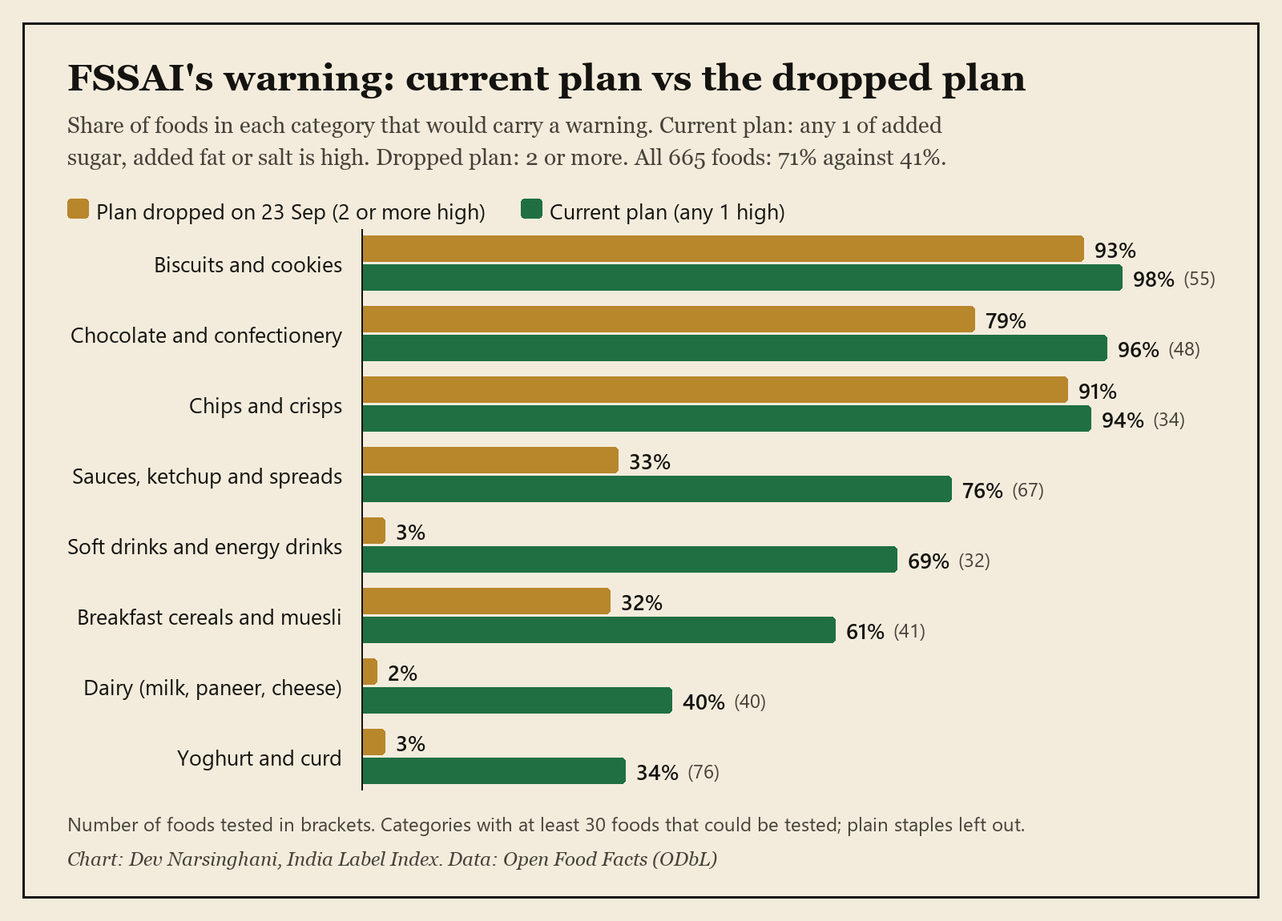
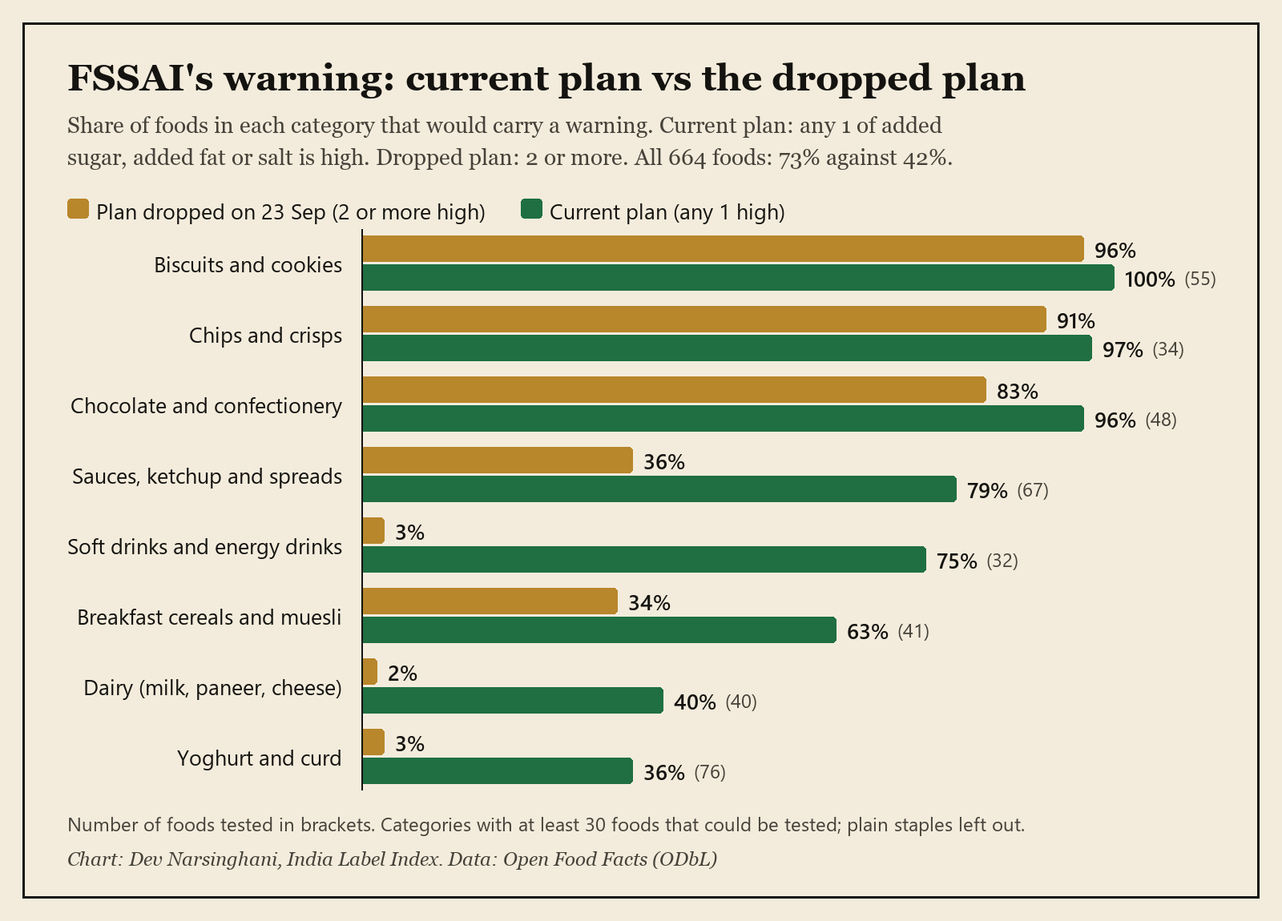
Study 3 corrected from pack photos (11 Nov 2026, backlog 15n): Open Food Facts volunteers had typed some foods' added sugar as 0 g or too low; 27 values read by eye from the nutrition photos (26 added sugar, 1 total sugar) and 1 junk record dropped. 482 of 664 warned under FSSAI's current plan (73%,

diff --git a/india-label-index/fssai-warning-labels/index.html b/india-label-index/fssai-warning-labels/index.html
@@ -4,14 +4,14 @@
 <meta charset="utf-8">
 <meta name="viewport" content="width=device-width, initial-scale=1">
 <title>If FSSAI's warning labels started today | India Label Index</title>
-<meta name="description" content="71% of the 665 foods I tested. That is under FSSAI&#x27;s current plan, where a food high in any one of added sugar, added fat or salt gets the warning. Under its first plan, which needed 2 or more, it would have been 41%.">
+<meta name="description" content="73% of the 664 foods I tested. That is under FSSAI&#x27;s current plan, where a food high in any one of added sugar, added fat or salt gets the warning. Under its first plan, which needed 2 or more, it would have been 42%.">
 <meta name="author" content="Dev Narsinghani">
 <link rel="canonical" href="https://devnarsinghani22.github.io/india-label-index/fssai-warning-labels/">
 <meta property="og:type" content="article">
 <meta property="og:site_name" content="Dev Narsinghani">
 <meta property="og:locale" content="en_IN">
 <meta property="og:title" content="If FSSAI&#x27;s warning labels started today: 7 in 10 Indian packaged foods would carry a warning">
-<meta property="og:description" content="71% of the 665 foods I tested. That is under FSSAI&#x27;s current plan, where a food high in any one of added sugar, added fat or salt gets the warning. Under its first plan, which needed 2 or more, it would have been 41%.">
+<meta property="og:description" content="73% of the 664 foods I tested. That is under FSSAI&#x27;s current plan, where a food high in any one of added sugar, added fat or salt gets the warning. Under its first plan, which needed 2 or more, it would have been 42%.">
 <meta property="og:url" content="https://devnarsinghani22.github.io/india-label-index/fssai-warning-labels/">
 <meta property="og:image" content="https://devnarsinghani22.github.io/india-label-index/fssai-warning-labels/og.png">
 <meta property="og:image:width" content="1200">
@@ -37,7 +37,7 @@ table.data th:first-child,table.data td:first-child{text-align:left;white-space:
 table.data.trail th,table.data.trail td{text-align:left;white-space:normal;vertical-align:top}table.data.trail th:first-child,table.data.trail td:first-child{min-width:0;width:16%}table.data.trail td:nth-child(2){width:26%}</style>
 <meta name="twitter:card" content="summary_large_image">
 <meta name="twitter:title" content="If FSSAI&#x27;s warning labels started today: 7 in 10 Indian packaged foods would carry a warning">
-<meta name="twitter:description" content="71% of the 665 foods I tested. That is under FSSAI&#x27;s current plan, where a food high in any one of added sugar, added fat or salt gets the warning. Under its first plan, which needed 2 or more, it would have been 41%.">
+<meta name="twitter:description" content="73% of the 664 foods I tested. That is under FSSAI&#x27;s current plan, where a food high in any one of added sugar, added fat or salt gets the warning. Under its first plan, which needed 2 or more, it would have been 42%.">
 <meta name="twitter:image" content="https://devnarsinghani22.github.io/india-label-index/fssai-warning-labels/og.png">
 <link rel="icon" href="/favicon.ico" sizes="32x32">
 <link rel="icon" href="/favicon.svg" type="image/svg+xml">
@@ -52,7 +52,7 @@ table.data.trail th,table.data.trail td{text-align:left;white-space:normal;verti
       "@type": "Dataset",
       "@id": "https://devnarsinghani22.github.io/india-label-index/fssai-warning-labels/#dataset",
       "name": "If FSSAI's warning labels started today. India Label Index 2026",
-      "description": "This dataset includes 665 non-staple Indian packaged foods with full nutrition tables, tested against FSSAI's proposed warning label limits. 71% would carry a warning under FSSAI's current plan, and the data comes from Open Food Facts.",
+      "description": "This dataset includes 664 non-staple Indian packaged foods with full nutrition tables tested against FSSAI's proposed warning label limits. Seventy three percent would carry a warning under FSSAI's current plan and the data comes from Open Food Facts.",
       "url": "https://devnarsinghani22.github.io/india-label-index/fssai-warning-labels/",
       "creator": {
         "@type": "Person",
@@ -105,7 +105,7 @@ table.data.trail th,table.data.trail td{text-align:left;white-space:normal;verti
         "@id": "https://devnarsinghani22.github.io/india-label-index/fssai-warning-labels/"
       },
       "datePublished": "2026-10-01",
-      "dateModified": "2026-10-29",
+      "dateModified": "2026-11-11",
       "inLanguage": "en-IN",
       "image": "https://devnarsinghani22.github.io/india-label-index/fssai-warning-labels/og.png",
       "author": {
@@ -151,7 +151,7 @@ table.data.trail th,table.data.trail td{text-align:left;white-space:normal;verti
           "name": "How many Indian packaged foods would get FSSAI's proposed warning?",
           "acceptedAnswer": {
             "@type": "Answer",
-            "text": "71% of the 665 foods I tested. That is under FSSAI's current plan, where a food high in any one of added sugar, added fat or salt gets the warning. Under its first plan, which needed 2 or more, it would have been 41%."
+            "text": "73% of the 664 foods I tested. That is under FSSAI's current plan, where a food high in any one of added sugar, added fat or salt gets the warning. Under its first plan, which needed 2 or more, it would have been 42%."
           }
         },
         {
@@ -159,7 +159,7 @@ table.data.trail th,table.data.trail td{text-align:left;white-space:normal;verti
           "name": "What did the switch to a single nutrient change?",
           "acceptedAnswer": {
             "@type": "Answer",
-            "text": "It added about 30 in every 100 packaged foods: the ones high in just one thing. Soft drinks are the clearest case: 69% are high in added sugar, but only 3% would have been warned under the 2-nutrient plan, because sugar is their only high nutrient."
+            "text": "It added about 30 in every 100 packaged foods: the ones high in just one thing. Soft drinks are the clearest case: 75% are high in added sugar, but only 3% would have been warned under the 2-nutrient plan, because sugar is their only high nutrient."
           }
         },
         {
@@ -167,7 +167,7 @@ table.data.trail th,table.data.trail td{text-align:left;white-space:normal;verti
           "name": "Which foods change most between the two plans?",
           "acceptedAnswer": {
             "@type": "Answer",
-            "text": "Foods that are high in just one thing. Soft drinks go from 3% to 69%. Yoghurt and curd go from 3% to 34%. Biscuits and chips barely change, because most are already high in two things."
+            "text": "Foods that are high in just one thing. Soft drinks go from 3% to 75%. Yoghurt and curd go from 3% to 36%. Biscuits and chips barely change, because most are already high in two things."
           }
         },
         {
@@ -175,7 +175,7 @@ table.data.trail th,table.data.trail td{text-align:left;white-space:normal;verti
           "name": "Which nutrient is high most often?",
           "acceptedAnswer": {
             "@type": "Answer",
-            "text": "Added sugar, in 45% of foods. Added fat is high in 43% and salt in 33%."
+            "text": "Added sugar, in 49% of foods. Added fat is high in 43% and salt in 33%."
           }
         },
         {
@@ -223,57 +223,58 @@ table.data.trail th,table.data.trail td{text-align:left;white-space:normal;verti
     <h1>If FSSAI's warning labels started today</h1>
     <p class="dek">FSSAI wants red warnings on packaged food high in added sugar, added fat or salt. It first proposed a warning only when 2 were high. After the Supreme Court asked why, it said on 23 September that 1 is enough. I ran both on Indian labels.</p>
     <p class="byline">By <a href="/" rel="author">Dev Narsinghani</a>. He writes about food labels, sleep and AI for marketing.</p>
-    <p class="meta">Published <time datetime="2026-10-01">1 October 2026</time> · 665 Indian packaged foods with a full nutrition table and ingredient list</p>
-    <p class="meta">Corrected 13 October 2026: Open Food Facts tags cheese as a fermented milk product, so 67 cheese lists were counted under yoghurt and curd. The share of foods tested that would carry FSSAI's warning in yoghurt and curd was 38% of 90 foods tested before, 34% of 76 now. Dairy now has enough foods to be shown: 40% of 40 foods tested. FSSAI's older plan stays 3%.</p>
+    <p class="meta">Published <time datetime="2026-10-01">1 October 2026</time> · 664 Indian packaged foods with a full nutrition table and ingredient list</p>
+    <p class="meta">Corrected 13 October 2026: Open Food Facts tags cheese as a fermented milk product, so 67 cheese lists were counted under yoghurt and curd. Yoghurt and curd under FSSAI's current plan went from 38% of 90 foods tested to 34% of 76. Dairy then had enough foods to be shown: 40% of 40 foods tested. FSSAI's older plan stayed 3%.</p>
+    <p class="meta">Corrected 11 November 2026: On Open Food Facts, volunteers had typed some foods' added sugar as 0 g or too low, while the pack's nutrition photo prints more. I read those photos by eye and fixed 27 values. I also dropped 1 record whose nutrition photo shows no food pack, which is why 665 foods became 664. All foods under FSSAI's current plan: 71% of 665 foods tested before, 73% of 664 foods tested now. The 2-nutrient plan FSSAI dropped: 41% before, 42% now. Soft drinks high in added sugar: 69% of 32 before, 75% of 32 now. Yoghurt and curd: 34% of 76 before, 36% of 76 now.</p>
     <div class="body">
     <div class="stats">
-<div class="stat"><b>71%</b><span>would carry a warning under FSSAI's current plan (any 1 nutrient high)</span></div>
-<div class="stat"><b>41%</b><span>under the plan it dropped on 23 September (2 or more high)</span></div>
-<div class="stat"><b>3% to 69%</b><span>of soft drinks warned, old plan to new plan</span></div>
+<div class="stat"><b>73%</b><span>would carry a warning under FSSAI's current plan (any 1 nutrient high)</span></div>
+<div class="stat"><b>42%</b><span>under the plan it dropped on 23 September (2 or more high)</span></div>
+<div class="stat"><b>3% to 75%</b><span>of soft drinks warned, old plan to new plan</span></div>
     </div>
     <h2 id="answers">Quick answers</h2>
 <h3>How many Indian packaged foods would get FSSAI's proposed warning?</h3>
-<p>71% of the 665 foods I tested. That is under FSSAI's current plan, where a food high in any one of added sugar, added fat or salt gets the warning. Under its first plan, which needed 2 or more, it would have been 41%.</p>
+<p>73% of the 664 foods I tested. That is under FSSAI's current plan, where a food high in any one of added sugar, added fat or salt gets the warning. Under its first plan, which needed 2 or more, it would have been 42%.</p>
 <h3>What did the switch to a single nutrient change?</h3>
-<p>It added about 30 in every 100 packaged foods: the ones high in just one thing. Soft drinks are the clearest case: 69% are high in added sugar, but only 3% would have been warned under the 2-nutrient plan, because sugar is their only high nutrient.</p>
+<p>It added about 30 in every 100 packaged foods: the ones high in just one thing. Soft drinks are the clearest case: 75% are high in added sugar, but only 3% would have been warned under the 2-nutrient plan, because sugar is their only high nutrient.</p>
 <h3>Which foods change most between the two plans?</h3>
-<p>Foods that are high in just one thing. Soft drinks go from 3% to 69%. Yoghurt and curd go from 3% to 34%. Biscuits and chips barely change, because most are already high in two things.</p>
+<p>Foods that are high in just one thing. Soft drinks go from 3% to 75%. Yoghurt and curd go from 3% to 36%. Biscuits and chips barely change, because most are already high in two things.</p>
 <h3>Which nutrient is high most often?</h3>
-<p>Added sugar, in 45% of foods. Added fat is high in 43% and salt in 33%.</p>
+<p>Added sugar, in 49% of foods. Added fat is high in 43% and salt in 33%.</p>
 <h3>What limits does FSSAI propose?</h3>
 <p>FSSAI told the Supreme Court it would use the ICMR-NIN 2024 limits. For a solid food, per 100 g: 3 g added sugar, 4.2 g added fat, 625 mg salt. For a drink, per 100 ml: 2 g, 1.5 g and 175 mg.</p>
     <figure class="chart"><figcaption><strong>Share that would carry a warning under FSSAI's current plan (any 1 nutrient high)</strong></figcaption><svg class="bars" viewBox="0 0 640 278" role="img" aria-label="Share of products high in at least one of added sugar, added fat or salt under FSSAI&#x27;s proposed limits, by category" preserveAspectRatio="xMinYMin meet">
-<g><title>Biscuits and cookies: 98% (from 55 products)</title><text x="240" y="19.4" text-anchor="end" class="lbl">Biscuits and cookies</text><rect x="250" y="4" width="323.4" height="22" rx="4" class="bar"/><text x="579.4" y="19.4" class="val">98%</text></g>
-<g><title>Chocolate and confectionery: 96% (from 48 products)</title><text x="240" y="49.4" text-anchor="end" class="lbl">Chocolate and confectionery</text><rect x="250" y="34" width="316.8" height="22" rx="4" class="bar"/><text x="572.8" y="49.4" class="val">96%</text></g>
-<g><title>Chips and crisps: 94% (from 34 products)</title><text x="240" y="79.4" text-anchor="end" class="lbl">Chips and crisps</text><rect x="250" y="64" width="310.2" height="22" rx="4" class="bar"/><text x="566.2" y="79.4" class="val">94%</text></g>
-<g><title>Sauces, ketchup and spreads: 76% (from 67 products)</title><text x="240" y="109.4" text-anchor="end" class="lbl">Sauces, ketchup and spreads</text><rect x="250" y="94" width="250.8" height="22" rx="4" class="bar"/><text x="506.8" y="109.4" class="val">76%</text></g>
-<g><title>Soft drinks and energy drinks: 69% (from 32 products)</title><text x="240" y="139.4" text-anchor="end" class="lbl">Soft drinks and energy drinks</text><rect x="250" y="124" width="227.7" height="22" rx="4" class="bar"/><text x="483.7" y="139.4" class="val">69%</text></g>
-<g><title>Breakfast cereals and muesli: 61% (from 41 products)</title><text x="240" y="169.4" text-anchor="end" class="lbl">Breakfast cereals and muesli</text><rect x="250" y="154" width="201.3" height="22" rx="4" class="bar"/><text x="457.3" y="169.4" class="val">61%</text></g>
+<g><title>Biscuits and cookies: 100% (from 55 products)</title><text x="240" y="19.4" text-anchor="end" class="lbl">Biscuits and cookies</text><rect x="250" y="4" width="330.0" height="22" rx="4" class="bar"/><text x="586.0" y="19.4" class="val">100%</text></g>
+<g><title>Chips and crisps: 97% (from 34 products)</title><text x="240" y="49.4" text-anchor="end" class="lbl">Chips and crisps</text><rect x="250" y="34" width="320.1" height="22" rx="4" class="bar"/><text x="576.1" y="49.4" class="val">97%</text></g>
+<g><title>Chocolate and confectionery: 96% (from 48 products)</title><text x="240" y="79.4" text-anchor="end" class="lbl">Chocolate and confectionery</text><rect x="250" y="64" width="316.8" height="22" rx="4" class="bar"/><text x="572.8" y="79.4" class="val">96%</text></g>
+<g><title>Sauces, ketchup and spreads: 79% (from 67 products)</title><text x="240" y="109.4" text-anchor="end" class="lbl">Sauces, ketchup and spreads</text><rect x="250" y="94" width="260.7" height="22" rx="4" class="bar"/><text x="516.7" y="109.4" class="val">79%</text></g>
+<g><title>Soft drinks and energy drinks: 75% (from 32 products)</title><text x="240" y="139.4" text-anchor="end" class="lbl">Soft drinks and energy drinks</text><rect x="250" y="124" width="247.5" height="22" rx="4" class="bar"/><text x="503.5" y="139.4" class="val">75%</text></g>
+<g><title>Breakfast cereals and muesli: 63% (from 41 products)</title><text x="240" y="169.4" text-anchor="end" class="lbl">Breakfast cereals and muesli</text><rect x="250" y="154" width="207.9" height="22" rx="4" class="bar"/><text x="463.9" y="169.4" class="val">63%</text></g>
 <g><title>Dairy (milk, paneer, cheese): 40% (from 40 products)</title><text x="240" y="199.4" text-anchor="end" class="lbl">Dairy (milk, paneer, cheese)</text><rect x="250" y="184" width="132.0" height="22" rx="4" class="bar"/><text x="388.0" y="199.4" class="val">40%</text></g>
-<g><title>Yoghurt and curd: 34% (from 76 products)</title><text x="240" y="229.4" text-anchor="end" class="lbl">Yoghurt and curd</text><rect x="250" y="214" width="112.2" height="22" rx="4" class="bar"/><text x="368.2" y="229.4" class="val">34%</text></g>
+<g><title>Yoghurt and curd: 36% (from 76 products)</title><text x="240" y="229.4" text-anchor="end" class="lbl">Yoghurt and curd</text><rect x="250" y="214" width="118.8" height="22" rx="4" class="bar"/><text x="374.8" y="229.4" class="val">36%</text></g>
 <g><title>Flours, grains and pulses: 22% (from 32 products)</title><text x="240" y="259.4" text-anchor="end" class="lbl">Flours, grains and pulses</text><rect x="250" y="244" width="72.6" height="22" rx="4" class="bar"/><text x="328.6" y="259.4" class="val">22%</text></g>
-</svg><p class="meta">Categories with at least 30 products that could be tested. From 665 foods in all.</p></figure>
+</svg><p class="meta">Categories with at least 30 products that could be tested. From 664 foods in all.</p></figure>
     <h2 id="phases">Old plan against current plan, by category</h2>
     <div class="tablewrap"><table class="data"><tr><th>Category</th><th>Foods tested</th><th>Dropped plan (2+ high)</th><th>Current plan (any 1 high)</th></tr>
-<tr><td>Biscuits and cookies</td><td>55</td><td>93%</td><td>98%</td></tr>
-<tr><td>Chocolate and confectionery</td><td>48</td><td>79%</td><td>96%</td></tr>
-<tr><td>Chips and crisps</td><td>34</td><td>91%</td><td>94%</td></tr>
-<tr><td>Sauces, ketchup and spreads</td><td>67</td><td>33%</td><td>76%</td></tr>
-<tr><td>Soft drinks and energy drinks</td><td>32</td><td>3%</td><td>69%</td></tr>
-<tr><td>Breakfast cereals and muesli</td><td>41</td><td>32%</td><td>61%</td></tr>
+<tr><td>Biscuits and cookies</td><td>55</td><td>96%</td><td>100%</td></tr>
+<tr><td>Chips and crisps</td><td>34</td><td>91%</td><td>97%</td></tr>
+<tr><td>Chocolate and confectionery</td><td>48</td><td>83%</td><td>96%</td></tr>
+<tr><td>Sauces, ketchup and spreads</td><td>67</td><td>36%</td><td>79%</td></tr>
+<tr><td>Soft drinks and energy drinks</td><td>32</td><td>3%</td><td>75%</td></tr>
+<tr><td>Breakfast cereals and muesli</td><td>41</td><td>34%</td><td>63%</td></tr>
 <tr><td>Dairy (milk, paneer, cheese)</td><td>40</td><td>2%</td><td>40%</td></tr>
-<tr><td>Yoghurt and curd</td><td>76</td><td>3%</td><td>34%</td></tr>
+<tr><td>Yoghurt and curd</td><td>76</td><td>3%</td><td>36%</td></tr>
 <tr><td>Flours, grains and pulses</td><td>32</td><td>16%</td><td>22%</td></tr>
     </table></div>
     <h2 id="each">Each nutrient</h2>
     <div class="tablewrap"><table class="data"><tr><th>Warning</th><th>Share of foods</th></tr>
-<tr><td>High in added sugar</td><td>44.8%</td></tr>
-<tr><td>High in added fat</td><td>42.9%</td></tr>
-<tr><td>High in salt</td><td>32.8%</td></tr>
+<tr><td>High in added sugar</td><td>48.6%</td></tr>
+<tr><td>High in added fat</td><td>42.8%</td></tr>
+<tr><td>High in salt</td><td>32.7%</td></tr>
     </table></div>
     <h2 id="rules">The rules I used</h2>
     <p>The limits FSSAI cited to the Supreme Court in its 28 August 2026 affidavit, from Table 15.1 of the ICMR-NIN Dietary Guidelines for Indians, 2024 (<a href="https://www.livelaw.in/amp/top-stories/adopting-canadian-model-on-warning-labels-for-packaged-foods-high-in-fat-sugar-or-salt-fssai-informs-supreme-court-551972">LiveLaw</a>, <a href="https://www.business-standard.com/india-news/sc-seeks-fssai-clarity-on-ultra-processed-foods-fopl-nutrient-thresholds-126091101217_1.html">Business Standard</a>). A solid food is high at 3 g of added sugar, 4.2 g of added fat or 625 mg of salt in 100 g. A drink is high at 2 g, 1.5 g or 175 mg in 100 ml.</p>
-    <p>Added sugar is the number the label itself declares; Indian labels must print it, and 682 of the foods had it. Where it was missing, I used total sugar, but only if a sugar was in the ingredient list. Added fat is total fat when an oil or fat is in the list. Salt counts when salt is in the list. Oils, ghee, flours, spices and tea are left out, as FSSAI exempts single-ingredient and naturally fat-rich foods.</p>
+    <p>Added sugar is the number the label itself declares; Indian labels must print it, and 677 of the foods had it. Where it was missing, I used total sugar, but only if a sugar was in the ingredient list. Added fat is total fat when an oil or fat is in the list. Salt counts when salt is in the list. Oils, ghee, flours, spices and tea are left out, as FSSAI exempts single-ingredient and naturally fat-rich foods.</p>
     <h2 id="paper-trail">FSSAI's front-of-pack label plans over time</h2>
     <p>This table shows FSSAI's own papers about front-of-pack labels from 2021 to 2026. Each row comes from one document, and says only what that document says.</p>
     <div class="tablewrap"><table class="data trail"><tr><th>Date</th><th>Document</th><th>What it says</th></tr>
@@ -291,7 +292,7 @@ table.data.trail th,table.data.trail td{text-align:left;white-space:normal;verti
       <li>The final rule is not out. FSSAI told the court it needs about 4 months to finalise it, then gives companies a year (<a href="https://theprint.in/health/fssai-tells-sc-it-will-introduce-front-of-pack-warnings-in-single-phase-gives-food-firms-1-yr-to-comply/3051546/">ThePrint</a>). The court reserved its order on 28 September 2026, and the limits may change.</li>
       <li>FSSAI also plans to cover some sweetened drinks by type, whatever their numbers. This study uses the nutrient limits only.</li>
       <li>Labels show total fat, not added fat, so the fat numbers are an upper estimate.</li>
-      <li>The data is from <a href="https://world.openfoodfacts.org/">Open Food Facts</a>, filled in by volunteers. Only 665 Indian foods had every number needed, so treat category numbers as rough.</li>
+      <li>The data is from <a href="https://world.openfoodfacts.org/">Open Food Facts</a>, filled in by volunteers. Only 664 Indian foods had every number needed, so treat category numbers as rough.</li>
       <li>It covers categories, not brands, and rates no product.</li>
     </ul>
     <p>Data and code: <a href="https://github.com/devnarsinghani22/india-label-index">https://github.com/devnarsinghani22/india-label-index</a> (fssai.py). See also <a href="https://devnarsinghani22.github.io/india-label-index/warning-labels/">If India used Chile's warning labels</a>. Part of the <a href="https://devnarsinghani22.github.io/india-label-index/">India Label Index 2026</a>.</p>

diff --git a/press/index.html b/press/index.html
@@ -17,7 +17,7 @@
 <meta property="og:image:width" content="1200">
 <meta property="og:image:height" content="630">
 <meta property="og:image:alt" content="Dev Narsinghani, with his photo and the line: I make honest food easy to choose, and I build my own AI to do it.">
-<meta property="article:modified_time" content="2026-10-13T09:00:00+05:30">
+<meta property="article:modified_time" content="2026-11-11T09:00:00+05:30">
 <style>
 .stats{display:grid;grid-template-columns:repeat(auto-fit,minmax(150px,1fr));gap:12px;margin:24px 0}
 .stat{border:1px solid var(--line);padding:14px;border-radius:6px}
@@ -74,7 +74,7 @@ table.data th:first-child,table.data td:first-child{text-align:left;white-space:
       "description": "Press kit for the India Label Index by Dev Narsinghani: for each of 7 studies of Indian food labels, the headline number with the number of foods behind it, lines to quote, a chart, the data and how to cite it. Bio, headshot and contact.",
       "inLanguage": "en-IN",
       "datePublished": "2026-10-08",
-      "dateModified": "2026-10-13",
+      "dateModified": "2026-11-11",
       "about": {
         "@id": "https://devnarsinghani22.github.io/#dev"
       },
@@ -164,7 +164,7 @@ table.data th:first-child,table.data td:first-child{text-align:left;white-space:
           "@id": "https://devnarsinghani22.github.io/press/charts/fssai-warning-labels.png",
           "contentUrl": "https://devnarsinghani22.github.io/press/charts/fssai-warning-labels.png",
           "name": "FSSAI's warning: current plan vs the dropped plan",
-          "caption": "Share of foods in each category that would carry a warning. Current plan: any 1 of added sugar, added fat or salt is high. Dropped plan: 2 or more. All 665 foods: 71% against 41%.",
+          "caption": "Share of foods in each category that would carry a warning. Current plan: any 1 of added sugar, added fat or salt is high. Dropped plan: 2 or more. All 664 foods: 73% against 42%.",
           "encodingFormat": "image/png",
           "width": 1600,
           "height": 1150,
@@ -306,6 +306,7 @@ table.data th:first-child,table.data td:first-child{text-align:left;white-space:
       },
       "sameAs": [
         "https://www.linkedin.com/in/devnarsinghani/",
+        "https://www.instagram.com/devnarsinghani/",
         "https://github.com/devnarsinghani22",
         "https://orcid.org/0009-0001-7941-6724",
         "https://www.kaggle.com/devnarsinghani",
@@ -350,7 +351,7 @@ table.data th:first-child,table.data td:first-child{text-align:left;white-space:
   <article class="guide press">
     <h1>Press kit</h1>
     <p class="dek">For journalists covering the India Label Index, Dev Narsinghani's open study of Indian food labels. Each study below has its headline number with the number of foods behind it, lines you can quote, a chart, the data and a citation.</p>
-    <p class="meta">Updated <time datetime="2026-10-13">13 October 2026</time> · Contact: <a href="mailto:dev.narsinghani@gmail.com">dev.narsinghani@gmail.com</a></p>
+    <p class="meta">Updated <time datetime="2026-11-11">11 November 2026</time> · Contact: <a href="mailto:dev.narsinghani@gmail.com">dev.narsinghani@gmail.com</a></p>
     <p class="toc"><a href="#bio">About Dev</a> · <a href="#added-sugar">Added sugar</a> · <a href="#chile-warning-labels">Chile's warning labels</a> · <a href="#fssai-warning-labels">FSSAI's warning labels</a> · <a href="#palm-oil">Palm oil</a> · <a href="#india-vs-world">India vs the world</a> · <a href="#diwali">The Diwali box</a> · <a href="#healthy-names">Grain words vs FSSAI warnings</a> · <a href="#method">Method</a> · <a href="#caveat">Caveat</a> · <a href="#cite">How to cite</a> · <a href="#contact">Contact</a></p>
     <div class="body">
     <h2 id="bio">About Dev</h2>
@@ -404,16 +405,16 @@ table.data th:first-child,table.data td:first-child{text-align:left;white-space:
   <section class="study" id="fssai-warning-labels">
     <h3 class="st">3. FSSAI's warning labels</h3>
     <p class="meta"><a href="https://devnarsinghani22.github.io/india-label-index/fssai-warning-labels/">If FSSAI's warning labels started today</a> · Published 1 October 2026</p>
-    <p class="head"><b>71%</b>of 665 Indian packaged foods tested would carry FSSAI's proposed warning under its current plan, against 41% under the plan it dropped.</p>
-    <p class="meta">n = 665 foods with a full nutrition table and ingredient list, plain staples left out.</p>
+    <p class="head"><b>73%</b>of 664 Indian packaged foods tested would carry FSSAI's proposed warning under its current plan, against 42% under the plan it dropped.</p>
+    <p class="meta">n = 664 foods with a full nutrition table and ingredient list, plain staples left out.</p>
     <h4>Lines you can quote</h4>
     <ul class="quotes">
-      <li>71% of 665 Indian packaged foods would carry FSSAI's proposed warning under its current plan, where one high nutrient is enough. Under the 2-nutrient plan it dropped on 23 September, it would have been 41%.</li>
-      <li>Soft drinks show the switch most clearly: 69% are high in added sugar, but only 3% would have been warned under the 2-nutrient plan (32 tested).</li>
-      <li>Yoghurt and curd go from 3% to 34% (76 tested). Biscuits and chips barely change, because most are already high in two things.</li>
+      <li>73% of 664 Indian packaged foods would carry FSSAI's proposed warning under its current plan, where one high nutrient is enough. Under the 2-nutrient plan it dropped on 23 September, it would have been 42%.</li>
+      <li>Soft drinks show the switch most clearly: 75% are high in added sugar, but only 3% would have been warned under the 2-nutrient plan (32 tested).</li>
+      <li>Yoghurt and curd go from 3% to 36% (76 tested). Biscuits and chips barely change, because most are already high in two things.</li>
     </ul>
-    <p class="ctx">The limits are the ICMR-NIN 2024 ones that FSSAI cited to the Supreme Court. The court reserved its order on 28 September 2026, so the final limits may change. Corrected 13 October 2026: Open Food Facts tags cheese as a fermented milk product, so 67 cheese lists were counted under yoghurt and curd. The share of foods tested that would carry FSSAI's warning in yoghurt and curd was 38% of 90 foods tested before, 34% of 76 now. All headline shares did not change.</p>
-    <a href="charts/fssai-warning-labels.png"><img class="chart" src="charts/fssai-warning-labels.png" width="1600" height="1150" loading="lazy" alt="FSSAI&#x27;s warning: current plan vs the dropped plan. Share of foods in each category that would carry a warning. Current plan: any 1 of added sugar, added fat or salt is high. Dropped plan: 2 or more. All 665 foods: 71% against 41%."></a>
+    <p class="ctx">The limits are the ICMR-NIN 2024 ones that FSSAI cited to the Supreme Court. The court reserved its order on 28 September 2026, so the final limits may change. Corrected 13 October 2026: Open Food Facts tags cheese as a fermented milk product, so 67 cheese lists were counted under yoghurt and curd. Yoghurt and curd under FSSAI's current plan went from 38% of 90 foods tested to 34% of 76. Corrected 11 November 2026: On Open Food Facts, volunteers had typed some foods' added sugar as 0 g or too low, while the pack's nutrition photo prints more. I read those photos by eye and fixed 27 values. I also dropped 1 record whose nutrition photo shows no food pack, which is why 665 foods became 664. All foods under FSSAI's current plan: 71% of 665 foods tested before, 73% of 664 foods tested now. The 2-nutrient plan FSSAI dropped: 41% before, 42% now.</p>
+    <a href="charts/fssai-warning-labels.png"><img class="chart" src="charts/fssai-warning-labels.png" width="1600" height="1150" loading="lazy" alt="FSSAI&#x27;s warning: current plan vs the dropped plan. Share of foods in each category that would carry a warning. Current plan: any 1 of added sugar, added fat or salt is high. Dropped plan: 2 or more. All 664 foods: 73% against 42%."></a>
     <ul class="files">
       <li>Chart: <a href="charts/fssai-warning-labels.png" download>PNG, 1600 x 1150</a> · <a href="charts/fssai-warning-labels.csv" download>the chart's numbers (CSV)</a> · <a href="https://devnarsinghani22.github.io/india-label-index/fssai-warning-labels/og.png">share card (PNG, 1200 x 630)</a></li>
       <li>Study page: <a href="https://devnarsinghani22.github.io/india-label-index/fssai-warning-labels/">devnarsinghani22.github.io/india-label-index/fssai-warning-labels/</a></li>

diff --git a/healthy-snacking/index.html b/healthy-snacking/index.html
@@ -4,14 +4,14 @@
 <meta charset="utf-8">
 <meta name="viewport" content="width=device-width, initial-scale=1">
 <title>Healthy snacking in India: what the labels say | Dev Narsinghani</title>
-<meta name="description" content="Most are not built for daily eating. Across 1,164 Indian snack ingredient lists I checked, sugar shows up in most sweet snacks, and under FSSAI&#x27;s proposed limits only 2% of biscuits and 6% of chips would carry no warning.">
+<meta name="description" content="Most are not built for daily eating. Across 1,164 Indian snack ingredient lists I checked, sugar shows up in most sweet snacks, and under FSSAI&#x27;s proposed limits only 0% of biscuits and 3% of chips would carry no warning.">
 <meta name="author" content="Dev Narsinghani">
 <link rel="canonical" href="https://devnarsinghani22.github.io/healthy-snacking/">
 <meta property="og:type" content="website">
 <meta property="og:site_name" content="Dev Narsinghani">
 <meta property="og:locale" content="en_IN">
 <meta property="og:title" content="Healthy snacking in India: what the labels say | Dev Narsinghani">
-<meta property="og:description" content="Most are not built for daily eating. Across 1,164 Indian snack ingredient lists I checked, sugar shows up in most sweet snacks, and under FSSAI&#x27;s proposed limits only 2% of biscuits and 6% of chips would carry no warning.">
+<meta property="og:description" content="Most are not built for daily eating. Across 1,164 Indian snack ingredient lists I checked, sugar shows up in most sweet snacks, and under FSSAI&#x27;s proposed limits only 0% of biscuits and 3% of chips would carry no warning.">
 <meta property="og:url" content="https://devnarsinghani22.github.io/healthy-snacking/">
 <meta property="og:image" content="https://devnarsinghani22.github.io/og.png">
 <meta property="og:image:width" content="1200">
@@ -37,7 +37,7 @@ table.data th:first-child,table.data td:first-child{text-align:left;white-space:
 </style>
 <meta name="twitter:card" content="summary_large_image">
 <meta name="twitter:title" content="Healthy snacking in India: what the labels say | Dev Narsinghani">
-<meta name="twitter:description" content="Most are not built for daily eating. Across 1,164 Indian snack ingredient lists I checked, sugar shows up in most sweet snacks, and under FSSAI&#x27;s proposed limits only 2% of biscuits and 6% of chips would carry no warning.">
+<meta name="twitter:description" content="Most are not built for daily eating. Across 1,164 Indian snack ingredient lists I checked, sugar shows up in most sweet snacks, and under FSSAI&#x27;s proposed limits only 0% of biscuits and 3% of chips would carry no warning.">
 <meta name="twitter:image" content="https://devnarsinghani22.github.io/og.png">
 <link rel="icon" href="/favicon.ico" sizes="32x32">
 <link rel="icon" href="/favicon.svg" type="image/svg+xml">
@@ -54,7 +54,7 @@ table.data th:first-child,table.data td:first-child{text-align:left;white-space:
       "headline": "Healthy snacking in India: what the labels say",
       "url": "https://devnarsinghani22.github.io/healthy-snacking/",
       "datePublished": "2026-10-01",
-      "dateModified": "2026-10-01",
+      "dateModified": "2026-11-11",
       "inLanguage": "en-IN",
       "author": {
         "@type": "Person",
@@ -85,7 +85,7 @@ table.data th:first-child,table.data td:first-child{text-align:left;white-space:
           "name": "Are packaged snacks in India healthy?",
           "acceptedAnswer": {
             "@type": "Answer",
-            "text": "Most are not built for daily eating. Across 1,164 Indian snack ingredient lists I checked, sugar shows up in most sweet snacks, and under FSSAI's proposed limits only 2% of biscuits and 6% of chips would carry no warning."
+            "text": "Most are not built for daily eating. Across 1,164 Indian snack ingredient lists I checked, sugar shows up in most sweet snacks, and under FSSAI's proposed limits only 0% of biscuits and 3% of chips would carry no warning."
           }
         },
         {
@@ -142,10 +142,11 @@ table.data th:first-child,table.data td:first-child{text-align:left;white-space:
     <h1>Healthy snacking in India: what the labels say</h1>
     <p class="dek">Most packaged snacks would carry a warning under FSSAI's proposed rules. Here is what 1,164 snack labels show, and 3 numbers to check on any pack.</p>
     <p class="byline">By <a href="/" rel="author">Dev Narsinghani</a>, health changemaker and operator. From the <a href="https://devnarsinghani22.github.io/india-label-index/">India Label Index</a>.</p>
+    <p class="meta">Corrected 11 November 2026: On Open Food Facts, volunteers had typed some foods' added sugar as 0 g or too low, while the pack's nutrition photo prints more. I read those photos by eye and fixed 27 values. Biscuits that would carry no warning: 2% of 55 before, 0% of 55 now. Chips that would carry no warning: 6% of 34 before, 3% of 34 now. I tested 55 biscuits and 34 chips.</p>
     <div class="body">
     <div class="stats">
-      <div class="stat"><b>2%</b><span>of biscuits would carry no FSSAI warning</span></div>
-      <div class="stat"><b>6%</b><span>of chips would carry none</span></div>
+      <div class="stat"><b>0%</b><span>of biscuits would carry no FSSAI warning</span></div>
+      <div class="stat"><b>3%</b><span>of chips would carry none</span></div>
       <div class="stat"><b>70%</b><span>of biscuits list sugar under 2 or more names</span></div>
     </div>
     <h2 id="check">The 3 numbers to check</h2>
@@ -157,7 +158,7 @@ table.data th:first-child,table.data td:first-child{text-align:left;white-space:
     <p>These are the limits FSSAI cited to the Supreme Court. A snack under all 3 would carry no warning. Not sure? Paste the label into the free <a href="/tools/label-checker/">Label Checker</a>.</p>
     <h2 id="answers">Quick answers</h2>
     <h3>Are packaged snacks in India healthy?</h3>
-    <p>Most are not built for daily eating. Across 1,164 Indian snack ingredient lists I checked, sugar shows up in most sweet snacks, and under FSSAI's proposed limits only 2% of biscuits and 6% of chips would carry no warning.</p>
+    <p>Most are not built for daily eating. Across 1,164 Indian snack ingredient lists I checked, sugar shows up in most sweet snacks, and under FSSAI's proposed limits only 0% of biscuits and 3% of chips would carry no warning.</p>
     <h3>How do I pick a healthier packaged snack?</h3>
     <p>Turn the pack over. Per 100 g, look for under 3 g of added sugar, under 625 mg of salt and under 4.2 g of fat. Those are FSSAI's proposed warning limits. Then check that no sugar sits in the first 3 ingredients.</p>
     <h3>Why do biscuits list so many sugars?</h3>
@@ -166,11 +167,11 @@ table.data th:first-child,table.data td:first-child{text-align:left;white-space:
     <p>Foods with a short list you recognise: roasted chana, makhana, peanuts, fruit, curd, nuts. If it comes in a pack, use the 3 numbers above.</p>
     <h2 id="data">Snack categories</h2>
     <div class="tablewrap"><table class="data"><tr><th>Category</th><th>Ingredient lists</th><th>List an added sugar</th><th>2+ sugar names</th><th>No FSSAI warning</th></tr>
-<tr><td>Biscuits and cookies</td><td>344</td><td>93%</td><td>70%</td><td>2%</td></tr>
-<tr><td>Chips and crisps</td><td>163</td><td>66%</td><td>12%</td><td>6%</td></tr>
+<tr><td>Biscuits and cookies</td><td>344</td><td>93%</td><td>70%</td><td>0%</td></tr>
+<tr><td>Chips and crisps</td><td>163</td><td>66%</td><td>12%</td><td>3%</td></tr>
 <tr><td>Namkeen and savoury snacks</td><td>105</td><td>52%</td><td>7%</td><td>-</td></tr>
 <tr><td>Chocolate and confectionery</td><td>236</td><td>86%</td><td>34%</td><td>4%</td></tr>
-<tr><td>Breakfast cereals and muesli</td><td>150</td><td>64%</td><td>36%</td><td>39%</td></tr>
+<tr><td>Breakfast cereals and muesli</td><td>150</td><td>64%</td><td>36%</td><td>37%</td></tr>
 <tr><td>Cakes and bakery</td><td>166</td><td>86%</td><td>11%</td><td>-</td></tr>
     </table></div>
     <p class="meta">Data: Open Food Facts (ODbL), read 1 October 2026. Category-level; no brand is rated. "No FSSAI warning" uses the foods with a full nutrition table (fewer than the ingredient lists); a dash means too few to say. Method: <a href="https://devnarsinghani22.github.io/india-label-index/">India Label Index</a>, <a href="https://devnarsinghani22.github.io/india-label-index/fssai-warning-labels/">FSSAI warning study</a>.</p>

diff --git a/india-label-index/per-serving/index.html b/india-label-index/per-serving/index.html
@@ -69,7 +69,7 @@ table.data .n{color:var(--mute);font-size:12px}</style>
         "sameAs": "https://orcid.org/0009-0001-7941-6724"
       },
       "datePublished": "2026-10-23",
-      "dateModified": "2026-10-28",
+      "dateModified": "2026-11-11",
       "license": "https://opendatacommons.org/licenses/odbl/1-0/",
       "isBasedOn": {
         "@type": "Dataset",
@@ -130,7 +130,7 @@ table.data .n{color:var(--mute);font-size:12px}</style>
         "@id": "https://devnarsinghani22.github.io/india-label-index/per-serving/"
       },
       "datePublished": "2026-10-23",
-      "dateModified": "2026-10-28",
+      "dateModified": "2026-11-11",
       "inLanguage": "en-IN",
       "image": "https://devnarsinghani22.github.io/india-label-index/per-serving/og.png",
       "author": {
@@ -296,6 +296,7 @@ table.data .n{color:var(--mute);font-size:12px}</style>
     </table></div>
     <h2 id="method">How I did it</h2>
     <p>The study uses the same 665 Indian packaged foods as study 3. I re-ran the test with the same rules and ingredient matchers. Added sugar is the label's declared added sugar if present, or total sugar if a sugar name is in the list. Added fat is total fat if an oil or fat is listed. Salt is salt if listed. Per serving is the per 100 g value times the printed serving divided by 100. The code checks the result two ways and they agree on every food. The lists and servings come from Open Food Facts, entered by volunteers, so they are not a random sample. The serving is what the pack prints, as typed in by a volunteer. Servings reading exactly 100 g or 100 ml are left out. The limits were set per 100 g and 100 ml; the per-serving test is a what-if. FSSAI's plan is a proposal, not yet law, and the Supreme Court order is reserved. Fat is an upper estimate. No brands are named.</p>
+    <p class="meta">This page uses the 665 foods from 1 October 2026 and did not update the per-serving numbers after study 3 changed to 664 foods on 11 November 2026.</p>
     <h2 id="sources">Where this comes from</h2>
     <ul>
       <li><a href="https://www.fssai.gov.in/upload/advisories/2021/10/617ba7ee1892cLetter_Minutes_FOPL_29_10_2021.pdf">FSSAI: minutes of the stakeholders' meeting on front-of-pack labelling, 30 June 2021 (letter of 29 October 2021)</a></li>

diff --git a/founders-office/index.html b/founders-office/index.html
@@ -151,7 +151,7 @@ table.data th:first-child,table.data td:first-child{text-align:left;white-space:
       <li>Senior Manager, Creative & Content Strategy, Only What's Needed (OWN).</li>
       <li>Chief of Staff to Revant Himatsingka at Food Pharmer, and founding team at Only What's Needed (OWN).</li>
       <li>Built the <a href="https://devnarsinghani22.github.io/india-label-index/">India Label Index</a>: open data on 3,798 Indian packaged-food ingredient lists. 6 in 10 list an added sugar.</li>
-      <li>Ran FSSAI's proposed warning limits on 665 foods: <a href="https://devnarsinghani22.github.io/india-label-index/fssai-warning-labels/">71% would carry a warning under its current plan</a>, against 41% under the plan it dropped.</li>
+      <li>Ran FSSAI's proposed warning limits on 664 foods: <a href="https://devnarsinghani22.github.io/india-label-index/fssai-warning-labels/">73% would carry a warning under its current plan</a>, against 42% under the plan it dropped.</li>
       <li>Built the free <a href="/tools/label-checker/">Label Checker</a>: paste a label, scan a barcode or snap a photo.</li>
       <li>Studied 900 LinkedIn posts from 9 health voices to learn what makes people act on health advice.</li>
       <li>Before that: Indus Insights (analytics), Grant Thornton Bharat (NHAI team), Sploot (founder's office). SRCC, Delhi.</li>

diff --git a/talks/index.html b/talks/index.html
@@ -152,7 +152,7 @@ table.data th:first-child,table.data td:first-child{text-align:left;white-space:
     <h3>Reading an Indian food label in 10 seconds</h3>
     <p>You learn to check added sugar, salt, and fat in 10 seconds. You also learn to spot sugar hiding in the first three ingredients.</p>
     <h3>What Indian food labels actually show</h3>
-    <p>You see that 6 in 10 of the 3,798 ingredient lists name an added sugar. You also see that 71% of 665 foods would carry a warning under FSSAI's current plan.</p>
+    <p>You see that 6 in 10 of the 3,798 ingredient lists name an added sugar. You see that 73% of 664 foods would carry a warning under FSSAI's current plan.</p>
     <h3>Building my own AI as a non-engineer</h3>
     <p>You learn how I run AI models on my laptop for marketing work. It's a talk for students and marketers who want to use AI.</p>
     <h3>Sleep and the snack aisle</h3>
